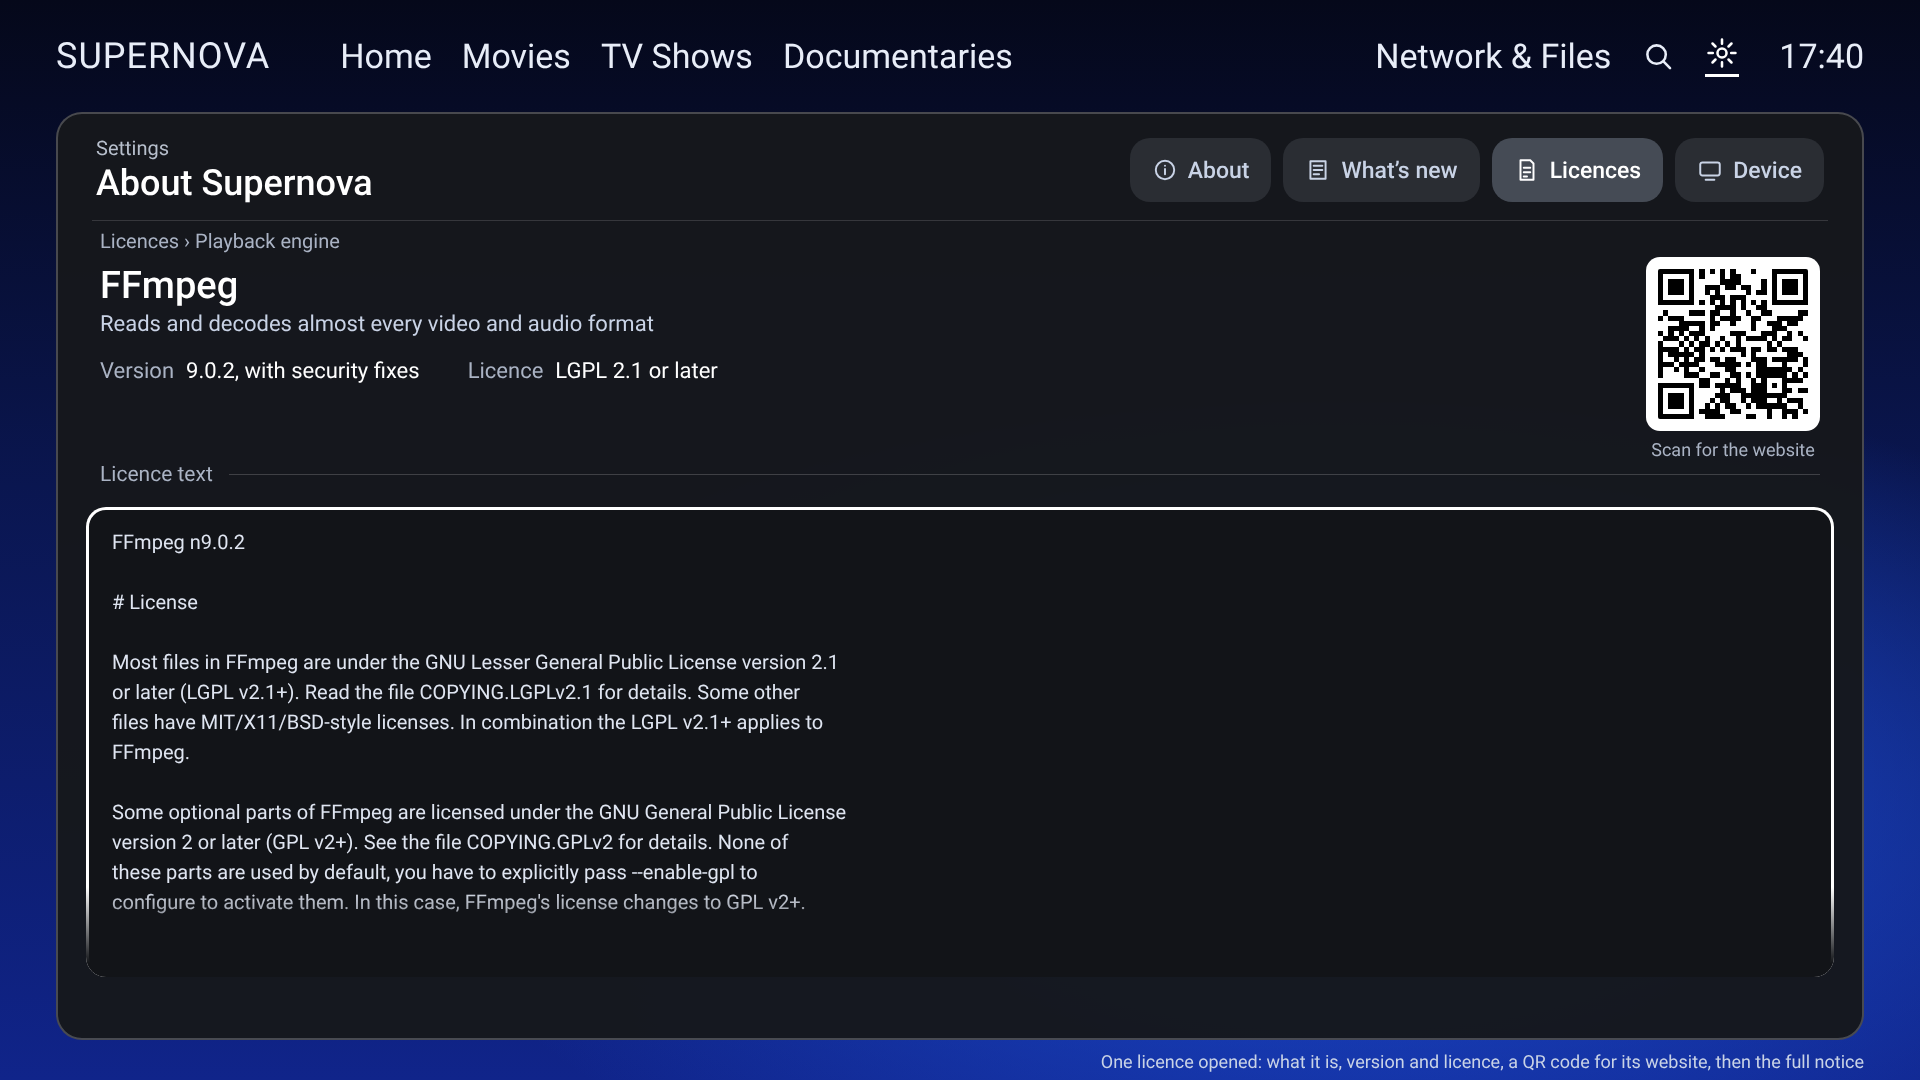
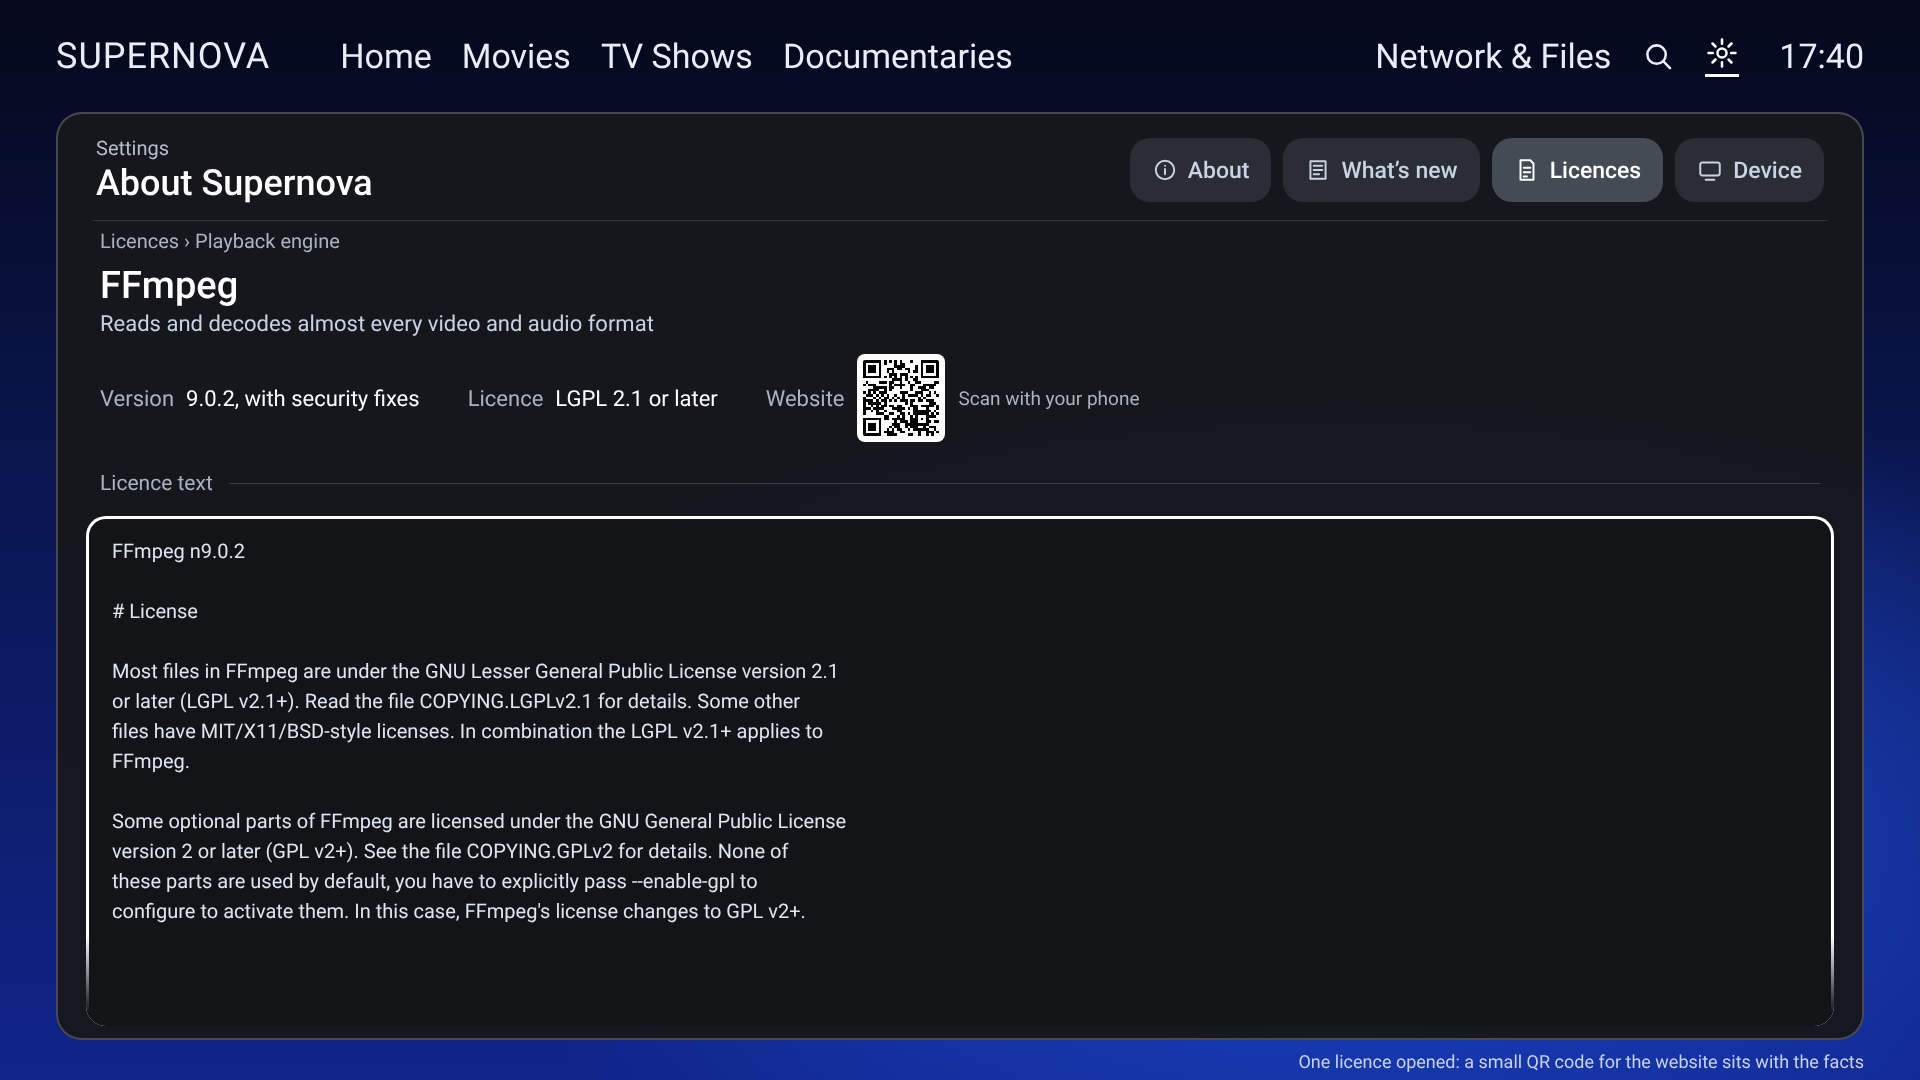
About: credit every outside service; smaller licence QR code; data provider inventory
Claude-Session: https://claude.ai/code/session_01FtDZqamY6pdaUKwc7fqgiA

diff --git a/docs/design/proposals/settings/about.js b/docs/design/proposals/settings/about.js
@@ -52,10 +52,15 @@ const credits = [['Where Supernova comes from', [['NOVA Video Player', 'The app 
   ['JustWatch, via TMDB', 'Where to Watch', 'Where a title is available comes from JustWatch through TMDB. Availability can change.'],
   ['Trakt', 'Optional watch history sync', 'Signing in is optional and uses your own Trakt account.'],
   ['OpenSubtitles.com', 'Optional subtitle downloads', 'Uses your own OpenSubtitles.com account and its limits.']]]];
+const svc = [['TMDB', 'Film and TV details, artwork, trailers and reviews', 'This product uses the TMDB API but is not endorsed or certified by TMDB.'],
+  ['JustWatch, via TMDB', 'Where to Watch'], ['OMDb', 'IMDb, Rotten Tomatoes and Metacritic scores, and awards'],
+  ['IntroDB and TheIntroDB', 'Intro, recap and credits times for Skip'], ['ChaptersDB', 'Chapters for files that have none'],
+  ['OpenSubtitles.com', 'Subtitle search and download'], ['Trakt', 'Optional watch history sync; Trending and Popular rows'],
+  ['YouTube', 'Trailers and extras play in YouTube’s player']];
 const about = shell(0,
-  `<div class="hero sm"><div class="logo">S</div><div><div class="an">Supernova</div><div class="av">Version 0.155 · 4 November 2026</div><div class="ab">A video player for Android TV, based on NOVA Video Player 6.6.4.</div></div></div>` +
-  credits.map(([g, items]) => `<div class="csec2"><span>${g}</span><i></i></div>` +
-    items.map(([n, r, t], i) => `<div class="cr sm${g.startsWith('Where') && i === 0 ? ' f' : ''}"><div class="crn"><b>${n}</b><span>${r}</span></div><div class="crt">${t}</div></div>`).join('')).join('') +
+  `<div class="hero sm"><div class="logo">S</div><div><div class="an">Supernova</div><div class="av">Version 0.155 · 4 November 2026</div><div class="ab">A video player for Android TV, based on NOVA Video Player 6.6.4, which grew out of Archos Video Player Community Edition. Thank you to both projects.</div></div></div>` +
+  `<div class="csec2"><span>Information and services</span><i></i></div>` +
+  svc.map(([n, r, t], i) => `<div class="sr${i === 0 ? ' f' : ''}"><b>${n}</b><span>${r}</span>${t ? `<div class="srt">${t}</div>` : ''}</div>`).join('') +
   `<div class="disc">No endorsement by any of these projects or services is implied.</div>`, '');
 const creditsPage = shell(0, `<div class="crumb2">About › Credits &amp; acknowledgements</div>` + credits.map(([g, items]) => `<div class="csec2"><span>${g}</span><i></i></div>` +
   items.map(([n, r, t], i) => `<div class="cr${g.startsWith('Where') && i === 0 ? ' f' : ''}"><div class="crn"><b>${n}</b><span>${r}</span></div><div class="crt">${t}</div></div>`).join('')).join('') +
@@ -74,7 +79,7 @@ Some optional parts of FFmpeg are licensed under the GNU General Public License
 version 2 or later (GPL v2+). See the file COPYING.GPLv2 for details. None of
 these parts are used by default, you have to explicitly pass --enable-gpl to
 configure to activate them. In this case, FFmpeg's license changes to GPL v2+.`;
-const licPage = shell(2, `<div class="crumb2">Licences › Playback engine</div><div class="lh"><div class="qr"><svg width="150" height="150" viewBox="0 0 29 29" shape-rendering="crispEdges"><path stroke="#000" d="${QR}"/></svg><span>Scan for the website</span></div><div><div class="lhn">FFmpeg</div><div class="lhs">Reads and decodes almost every video and audio format</div><div class="lfacts"><span><i>Version</i>9.0.2, with security fixes</span><span><i>Licence</i>LGPL 2.1 or later</span></div></div></div>` +
+const licPage = shell(2, `<div class="crumb2">Licences › Playback engine</div><div class="lh"><div><div class="lhn">FFmpeg</div><div class="lhs">Reads and decodes almost every video and audio format</div><div class="lfacts"><span><i>Version</i>9.0.2, with security fixes</span><span><i>Licence</i>LGPL 2.1 or later</span><span class="qrw"><i>Website</i><svg width="76" height="76" viewBox="0 0 29 29" shape-rendering="crispEdges"><path stroke="#000" d="${QR}"/></svg><em>Scan with your phone</em></span></div></div></div>` +
   `<div class="csec2"><span>Licence text</span><i></i></div><div class="ltext f"><pre>${notice}</pre><div class="hfade"></div></div>`, '');
 const libs = [['App libraries', [['AndroidX', 'Apache 2.0'], ['OkHttp', 'Apache 2.0'], ['Retrofit', 'Apache 2.0'], ['jcifs-ng (Windows shares)', 'LGPL 2.1'], ['sshj (SFTP)', 'Apache 2.0'], ['sardine-android (WebDAV)', 'Apache 2.0']]],
   ['Playback engine', [['FFmpeg', 'LGPL 2.1'], ['libass (styled subtitles)', 'ISC'], ['dav1d (AV1)', 'BSD 2-Clause'], ['HarfBuzz', 'MIT']]]];
@@ -84,10 +89,10 @@ const dev = shell(3,
   `<div class="csec2"><span>Playback</span><i></i></div>` + info('Hardware video', 'H.264 · HEVC · VP9 · Dolby Vision · VP8 · MPEG-2 · VC-1') +
   `<div class="csec2"><span>Library</span><i></i></div>` + info('In your library', '85 films · 324 shows · 1,726 episodes') + info('Sources', '2 · USB drive and Put.io'), '');
 const shots = [
-  ['26-about.png', about, 'About: version and NOVA base once, with the credits on the same page'],
+  ['26-about.png', about, 'About: version, origins and every outside service Supernova uses'],
   ['27-whats-new.png', news, 'What’s new: every version since 0.1, newest first; the selected one is described on the right'],
   ['30-whats-new-start.png', newsEnd, 'The start of the list: test builds with no visible change are shown as one quiet line'],
-  ['32-licence.png', licPage, 'One licence opened: what it is, version and licence, a QR code for its website, then the full notice'],
+  ['32-licence.png', licPage, 'One licence opened: a small QR code for the website sits with the facts'],
   ['28-licences.png', lic, 'Licences: search, grouped into app libraries and playback engine'],
   ['29-device.png', dev, 'Device: device, decoders and library in plain words'],
 ];
@@ -147,9 +152,9 @@ body{width:1920px;height:1080px;overflow:hidden;font-family:R;color:#fff;positio
 .crumb2{font-size:20px;color:#aab3c4;margin:6px 14px 4px}
 .cr{border-radius:20px;padding:14px 22px;margin-bottom:4px}.cr.f{box-shadow:inset 0 0 0 3px #fff}.crn{display:flex;align-items:baseline;gap:16px}.crn b{font-size:25px;font-weight:500}.crn span{font-size:20px;color:#aab3c4}.crt{font-size:21px;color:#dfe5f1;margin-top:6px;line-height:1.4;max-width:1500px}
 .disc{font-size:19px;color:#8f98a8;margin:14px 22px}
-.lh{margin:10px 14px 16px;position:relative;min-height:170px}.qr{position:absolute;right:0;top:-6px;display:flex;flex-direction:column;align-items:center;gap:8px}.qr svg{background:#fff;padding:12px;border-radius:14px;box-sizing:content-box}.qr span{font-size:18px;color:#aab3c4}.hero.sm{margin:6px 14px 10px}.hero.sm .logo{width:96px;height:96px;font-size:52px;border-radius:24px}.hero.sm .an{font-size:34px}.cr.sm{padding:10px 22px;margin-bottom:0}.lhn{font-size:38px;font-weight:500}.lhs{font-size:22px;color:#c9d3e6;margin-top:4px}
-.lfacts{display:flex;gap:48px;margin:22px 0 0;font-size:22px}.lfacts i{font-style:normal;color:#aab3c4;margin-right:12px}
-.ltext{position:relative;border-radius:20px;background:#121418;margin:8px 0 0;height:470px;overflow:hidden;padding:20px 26px}.ltext.f{box-shadow:inset 0 0 0 3px #fff}.ltext pre{font-family:R;font-size:20px;line-height:1.5;color:#dfe5f1;white-space:pre-wrap;margin:0}.ltext .hfade{background:linear-gradient(0deg,#121418 15%,rgba(18,20,24,0))}
+.lh{margin:10px 14px 16px}.qr{position:absolute;right:0;top:-6px;display:flex;flex-direction:column;align-items:center;gap:8px}.qr svg{background:#fff;padding:12px;border-radius:14px;box-sizing:content-box}.qr span{font-size:18px;color:#aab3c4}.hero.sm{margin:6px 14px 10px}.hero.sm .logo{width:96px;height:96px;font-size:52px;border-radius:24px}.hero.sm .an{font-size:34px}.cr.sm{padding:10px 22px;margin-bottom:0}.lhn{font-size:38px;font-weight:500}.lhs{font-size:22px;color:#c9d3e6;margin-top:4px}
+.lfacts{display:flex;gap:48px;align-items:center;margin:18px 0 0;font-size:22px}.qrw{display:flex;align-items:center}.qrw svg{background:#fff;padding:6px;border-radius:8px;box-sizing:content-box;flex:none}.qrw em{font-style:normal;font-size:19px;color:#aab3c4;margin-left:14px}.sr{display:flex;flex-wrap:wrap;align-items:baseline;gap:6px 18px;padding:12px 22px;border-radius:18px}.sr.f{box-shadow:inset 0 0 0 3px #fff}.sr b{font-size:24px;font-weight:500}.sr span{font-size:21px;color:#c9d3e6}.srt{width:100%;font-size:20px;color:#aab3c4}.lfacts i{font-style:normal;color:#aab3c4;margin-right:12px}
+.ltext{position:relative;border-radius:20px;background:#121418;margin:8px 0 0;height:510px;overflow:hidden;padding:20px 26px}.ltext.f{box-shadow:inset 0 0 0 3px #fff}.ltext pre{font-family:R;font-size:20px;line-height:1.5;color:#dfe5f1;white-space:pre-wrap;margin:0}.ltext .hfade{background:linear-gradient(0deg,#121418 15%,rgba(18,20,24,0))}
 .label{z-index:20;position:absolute;right:56px;bottom:8px;font-size:18px;color:#c9d3e6}`;
 (async () => { const b = await chromium.launch(); const t = await b.newPage({ viewport: { width: 1920, height: 1080 } });
   for (const [f, body, label] of shots) {

diff --git a/docs/0.155/DATA_PROVIDERS.md b/docs/0.155/DATA_PROVIDERS.md
@@ -1,0 +1,19 @@
+# Outside services Supernova uses (from the code, 4 Nov 2026)
+
+| Service | What for | Key / account | Backup if it fails |
+|---|---|---|---|
+| TMDB (`api.themoviedb.org`, `image.tmdb.org`) | Film/TV details, artwork, cast, trailer list, user reviews, TMDB score | App key | None (the library falls back to file names and local .nfo files) |
+| JustWatch via TMDB | Where to Watch | Through TMDB | None; unknown is shown as unknown, never as unavailable |
+| OMDb (`omdbapi.com`) | IMDb, Rotten Tomatoes, Metacritic scores and awards on Reception | Owner's own key in Settings; 900 requests/day budget | Without a key, Reception shows the TMDB score only |
+| IntroDB (`api.introdb.app`) | Intro, recap and outro times for Skip | — | **Yes:** used together with TheIntroDB (`IntroDbManager`) |
+| TheIntroDB (`api.theintrodb.org`) | Intro/recap when IntroDB has none; the only source of credits and preview times | — | Backup for IntroDB |
+| ChaptersDB (`chaptersdb.com`) | Chapters for files with none of their own | — | **It is the backup:** the file's own chapters come first (`PlayerActivity.previewChapters`) |
+| OpenSubtitles.com (`api.opensubtitles.com`) | Subtitle search and download | Owner's account | None (local and embedded subtitles still work) |
+| Trakt (`api.trakt.tv`) | Optional watch history sync; Trending and Popular Home rows | Owner's account | None |
+| YouTube (`youtube.com`) | Trailers and extras play in YouTube's embedded player; extra durations read from the public page | — | **Yes:** if the embedded player can't run, the trailer opens in YouTube instead (`PreviewTrailer`) |
+| Put.io (`api.put.io`) | The owner's own files (a source, not a data provider) | Owner's account | — |
+| Sentry | Crash reporting inherited from NOVA | Off: no `sentry.properties`, empty DSN | — |
+
+Credits today (`assets/foundation/credits.json`) name only NOVA, Archos, TMDB, JustWatch, Trakt and OpenSubtitles.
+Missing: **OMDb, IntroDB, TheIntroDB, ChaptersDB, YouTube** — added in mock-up `26`; to add to `credits.json` in 0.156
+(check each service's attribution terms when coding; TMDB's required sentence stays word for word).

diff --git a/docs/0.155/OWNER_NOTES.md b/docs/0.155/OWNER_NOTES.md
@@ -494,4 +494,6 @@ Codex's branch `codex/0155-code-2026-11-04` (DP-01…DP-07, TV-only stages). **N
   from `credits.json` (NOVA corrected to 6.6.4), TMDB's required wording kept exactly.
 - **One licence opened** (`32`): name, what it does, version, licence, a **QR code** for its website (owner; replaces
   the written address, "Scan for the website"), then the full notice in a scrolling box.
+- **QR size** (owner: far too big): now a small square (76 px) in the facts line, "Website [QR] Scan with your phone". QR codes are square by standard; a rectangular version (rMQR) exists but most phone cameras can't read it.
+- **Credits for every outside service** (owner): About (`26`) lists TMDB, JustWatch, OMDb, IntroDB and TheIntroDB, ChaptersDB, OpenSubtitles.com, Trakt and YouTube; Archos and NOVA thanked in the line under the version. Full list and backups: `docs/0.155/DATA_PROVIDERS.md`.
 - **Status:** awaiting the owner's review.
